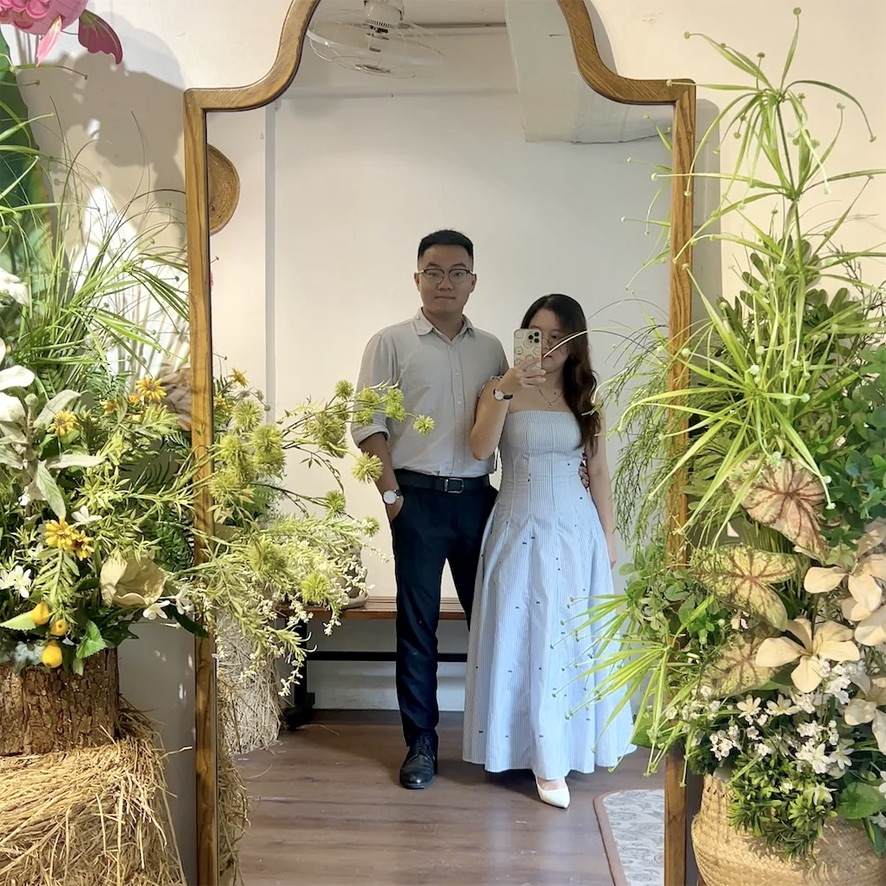
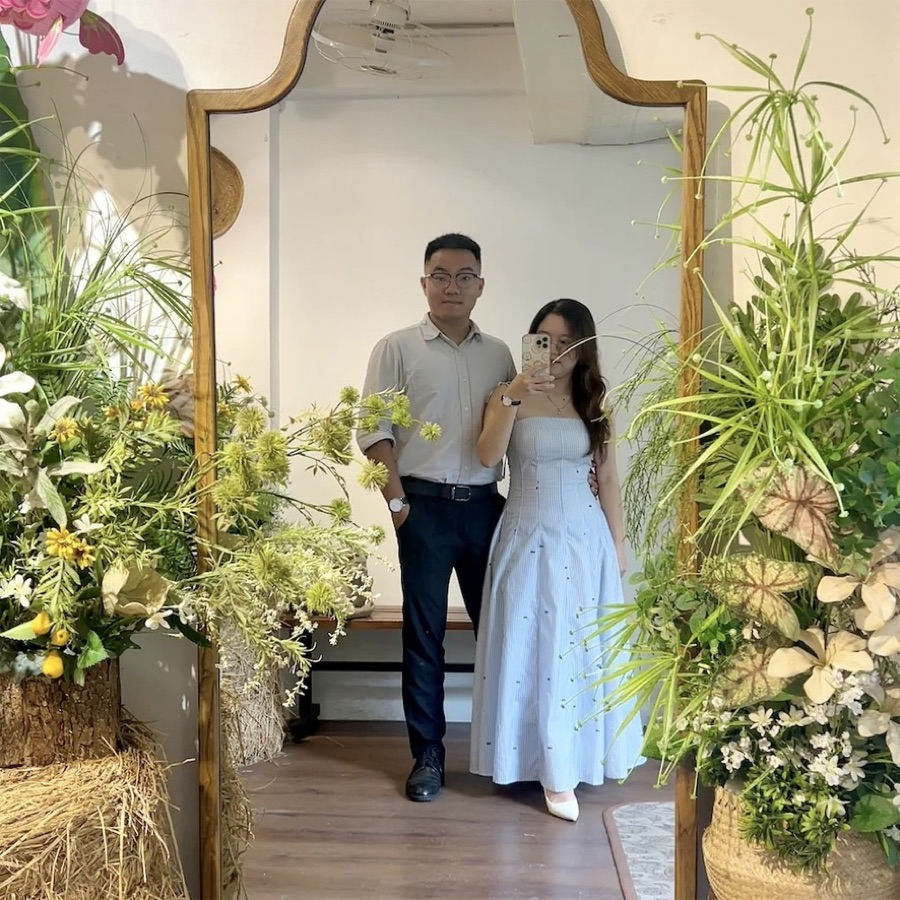
Optimise images for fast page load
bosch.png (2.2 MB) → bosch.jpg (269 KB, 88% smaller)
Remove unused bg.png (7.3 MB)
Compress quan.jpeg to 295 KB

diff --git a/src/components/Hero.jsx b/src/components/Hero.jsx
@@ -2,7 +2,7 @@ import { useEffect, useState } from "react";
 import { motion } from "framer-motion";
 import { heroStats, heroTypingPhrases } from "../data/content";
 
-const heroImage  = `${import.meta.env.BASE_URL}assets/bosch.png`;
+const heroImage  = `${import.meta.env.BASE_URL}assets/bosch.jpg`;
 const avatarImage = `${import.meta.env.BASE_URL}assets/avatar.jpeg`;
 
 function Hero() {
